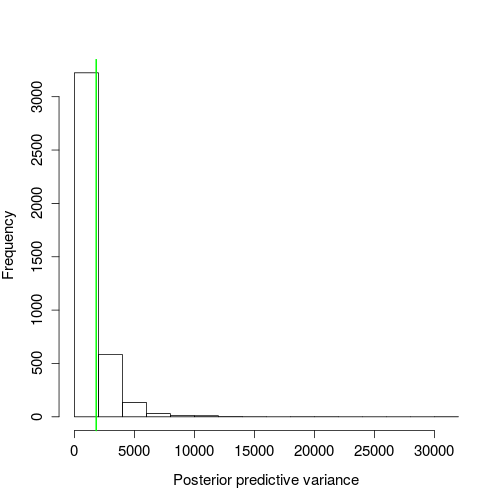
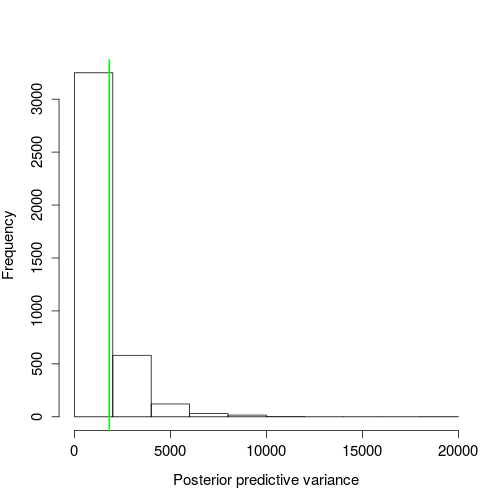
plot improvements

diff --git a/_site/Prius/index.html b/_site/Prius/index.html
@@ -170,10 +170,10 @@
 ## post-warmup draws per chain=1000, total post-warmup draws=4000.
 ## 
 ##        mean se_mean   sd   2.5%    25%    50%    75%  97.5% n_eff Rhat
-## beta   0.03    0.00 0.01   0.02   0.02   0.03   0.03   0.04  1534    1
-## lp__ -82.17    0.02 0.76 -84.27 -82.34 -81.87 -81.70 -81.65  1669    1
+## beta   0.03    0.00 0.01   0.02   0.02   0.03   0.03   0.04  1343    1
+## lp__ -82.15    0.02 0.69 -84.12 -82.32 -81.88 -81.70 -81.65  1881    1
 ## 
-## Samples were drawn using NUTS(diag_e) at Thu Aug 31 01:08:20 2017.
+## Samples were drawn using NUTS(diag_e) at Thu Aug 31 01:15:22 2017.
 ## For each parameter, n_eff is a crude measure of effective sample size,
 ## and Rhat is the potential scale reduction factor on split chains (at 
 ## convergence, Rhat=1).
@@ -213,11 +213,11 @@
 </div>
 
 <div class="highlighter-rouge"><pre class="highlight"><code>##     2.5%    97.5% 
-## 22.34643 58.51085
+## 22.40362 56.17432
 </code></pre>
 </div>
 
-<p>So there’s a 95% chance the expected wait time between Prius spottings is between 22 and 59 seconds.</p>
+<p>So there’s a 95% chance the expected wait time between Prius spottings is between 22 and 56 seconds.</p>
 
 <p>We can also easily see the probability that the expected wait time is less than, say, one minute.</p>
 
@@ -225,7 +225,7 @@
 </span></code></pre>
 </div>
 
-<div class="highlighter-rouge"><pre class="highlight"><code>## [1] 0.98075
+<div class="highlighter-rouge"><pre class="highlight"><code>## [1] 0.987
 </code></pre>
 </div>
 
@@ -246,7 +246,7 @@
 </span></code></pre>
 </div>
 
-<div class="highlighter-rouge"><pre class="highlight"><code>## [1] 0.225
+<div class="highlighter-rouge"><pre class="highlight"><code>## [1] 0.21575
 </code></pre>
 </div>
 
@@ -268,35 +268,12 @@
   </span><span class="n">geom_hline</span><span class="p">(</span><span class="n">yintercept</span><span class="w"> </span><span class="o">=</span><span class="w"> </span><span class="m">0</span><span class="p">)</span><span class="w"> </span><span class="o">+</span><span class="w">
   </span><span class="n">theme_minimal</span><span class="p">()</span><span class="w"> </span><span class="o">+</span><span class="w">
   </span><span class="n">ylab</span><span class="p">(</span><span class="s2">"Simulated - observed quantiles"</span><span class="p">)</span><span class="w"> </span><span class="o">+</span><span class="w">
-  </span><span class="n">xlab</span><span class="p">(</span><span class="s2">"Observed quantiles"</span><span class="p">)</span><span class="w">
+  </span><span class="n">xlab</span><span class="p">(</span><span class="s2">"Observed quantiles"</span><span class="p">)</span><span class="w"> </span><span class="o">+</span><span class="w">
+  </span><span class="n">theme</span><span class="p">(</span><span class="n">text</span><span class="w"> </span><span class="o">=</span><span class="w"> </span><span class="n">element_text</span><span class="p">(</span><span class="n">size</span><span class="o">=</span><span class="m">20</span><span class="p">))</span><span class="w">
 </span></code></pre>
 </div>
 
 <p><img src="/figure/source/2017-08-30-Prius/unnamed-chunk-13-1.png" title="plot of chunk unnamed-chunk-13" alt="plot of chunk unnamed-chunk-13" style="display: block; margin: auto;" /></p>
-
-<div class="language-r highlighter-rouge"><pre class="highlight"><code><span class="w">  </span><span class="n">theme</span><span class="p">(</span><span class="n">text</span><span class="w"> </span><span class="o">=</span><span class="w"> </span><span class="n">element_text</span><span class="p">(</span><span class="n">size</span><span class="o">=</span><span class="m">20</span><span class="p">))</span><span class="w">
-</span></code></pre>
-</div>
-
-<div class="highlighter-rouge"><pre class="highlight"><code>## List of 1
-##  $ text:List of 11
-##   ..$ family       : NULL
-##   ..$ face         : NULL
-##   ..$ colour       : NULL
-##   ..$ size         : num 20
-##   ..$ hjust        : NULL
-##   ..$ vjust        : NULL
-##   ..$ angle        : NULL
-##   ..$ lineheight   : NULL
-##   ..$ margin       : NULL
-##   ..$ debug        : NULL
-##   ..$ inherit.blank: logi FALSE
-##   ..- attr(*, "class")= chr [1:2] "element_text" "element"
-##  - attr(*, "class")= chr [1:2] "theme" "gg"
-##  - attr(*, "complete")= logi FALSE
-##  - attr(*, "validate")= logi TRUE
-</code></pre>
-</div>
 
 <p>Ideally, the shape should be relatively flat and centered on zero. The high end gets a little squirrelly, but overall this looks pretty good. The replicated draws to encapsulate zero. We confirm the exponential model isn’t too bad.</p>
 
@@ -317,8 +294,8 @@
 </span></code></pre>
 </div>
 
-<div class="highlighter-rouge"><pre class="highlight"><code>##     2.5%    97.5% 
-## 0.841402 4.567670
+<div class="highlighter-rouge"><pre class="highlight"><code>##      2.5%     97.5% 
+## 0.8743111 4.4394693
 </code></pre>
 </div>
 
@@ -346,7 +323,7 @@ Let’s see how the approximate confidence interval for the expected wait time f
 </div>
 
 <div class="highlighter-rouge"><pre class="highlight"><code>##     2.5%    97.5% 
-## 17.64706 57.29412
+## 18.11765 57.52941
 </code></pre>
 </div>
 

diff --git a/_posts/2017-08-30-Prius.md b/_posts/2017-08-30-Prius.md
@@ -132,10 +132,10 @@ print(stan_fit)
 ## post-warmup draws per chain=1000, total post-warmup draws=4000.
 ## 
 ##        mean se_mean   sd   2.5%    25%    50%    75%  97.5% n_eff Rhat
-## beta   0.03    0.00 0.01   0.02   0.02   0.03   0.03   0.04  1534    1
-## lp__ -82.17    0.02 0.76 -84.27 -82.34 -81.87 -81.70 -81.65  1669    1
+## beta   0.03    0.00 0.01   0.02   0.02   0.03   0.03   0.04  1343    1
+## lp__ -82.15    0.02 0.69 -84.12 -82.32 -81.88 -81.70 -81.65  1881    1
 ## 
-## Samples were drawn using NUTS(diag_e) at Thu Aug 31 01:08:20 2017.
+## Samples were drawn using NUTS(diag_e) at Thu Aug 31 01:15:22 2017.
 ## For each parameter, n_eff is a crude measure of effective sample size,
 ## and Rhat is the potential scale reduction factor on split chains (at 
 ## convergence, Rhat=1).
@@ -179,10 +179,10 @@ cred1
 
 ```
 ##     2.5%    97.5% 
-## 22.34643 58.51085
+## 22.40362 56.17432
 ```
 
-So there's a 95% chance the expected wait time between Prius spottings is between 22 and 59 seconds.
+So there's a 95% chance the expected wait time between Prius spottings is between 22 and 56 seconds.
 
 We can also easily see the probability that the expected wait time is less than, say, one minute. 
 
@@ -192,7 +192,7 @@ mean(1/exp_post$beta < 60)
 ```
 
 ```
-## [1] 0.98075
+## [1] 0.987
 ```
 
 Also valuable in a Bayesian framework is the ability to conduct posterior predictive checks. We can use posterior draws of the rate parameter, and generate simulated data from this exponential distribution. Perhaps the wait times have more variation than the exponential distribution allows for. We simply need to compare the observed variation to that of the simulated data sets:
@@ -214,7 +214,7 @@ mean(pred_var > var(wt_times$wait))
 ```
 
 ```
-## [1] 0.225
+## [1] 0.21575
 ```
 
 There's a ~0.22% probability of simulated data having variation greater than the observed. This isn't too far off. The nearer to 50%, the more consistent the simulated data and observed. The exponential distribution model as-is seems fairly adequate.
@@ -238,34 +238,11 @@ pred_quants %>% ggplot(aes(x = obs_quants, y = quants - obs_quants, group = draw
   geom_hline(yintercept = 0) +
   theme_minimal() +
   ylab("Simulated - observed quantiles") +
-  xlab("Observed quantiles")
-```
-
-<img src="/figure/source/2017-08-30-Prius/unnamed-chunk-13-1.png" title="plot of chunk unnamed-chunk-13" alt="plot of chunk unnamed-chunk-13" style="display: block; margin: auto;" />
-
-```r
+  xlab("Observed quantiles") +
   theme(text = element_text(size=20))
 ```
 
-```
-## List of 1
-##  $ text:List of 11
-##   ..$ family       : NULL
-##   ..$ face         : NULL
-##   ..$ colour       : NULL
-##   ..$ size         : num 20
-##   ..$ hjust        : NULL
-##   ..$ vjust        : NULL
-##   ..$ angle        : NULL
-##   ..$ lineheight   : NULL
-##   ..$ margin       : NULL
-##   ..$ debug        : NULL
-##   ..$ inherit.blank: logi FALSE
-##   ..- attr(*, "class")= chr [1:2] "element_text" "element"
-##  - attr(*, "class")= chr [1:2] "theme" "gg"
-##  - attr(*, "complete")= logi FALSE
-##  - attr(*, "validate")= logi TRUE
-```
+<img src="/figure/source/2017-08-30-Prius/unnamed-chunk-13-1.png" title="plot of chunk unnamed-chunk-13" alt="plot of chunk unnamed-chunk-13" style="display: block; margin: auto;" />
 
 
 Ideally, the shape should be relatively flat and centered on zero. The high end gets a little squirrelly, but overall this looks pretty good. The replicated draws to encapsulate zero. We confirm the exponential model isn't too bad.
@@ -290,8 +267,8 @@ quantile(pred_max/60, c(0.025, 0.975))
 ```
 
 ```
-##     2.5%    97.5% 
-## 0.841402 4.567670
+##      2.5%     97.5% 
+## 0.8743111 4.4394693
 ```
 
 Wow, the model predicts wait times should pretty much always be less than five minutes. That's a lot of Prii are flashing past your face!
@@ -320,7 +297,7 @@ quantile(boots, c(0.025, 0.975))
 
 ```
 ##     2.5%    97.5% 
-## 17.64706 57.29412
+## 18.11765 57.52941
 ```
 
 ```r
